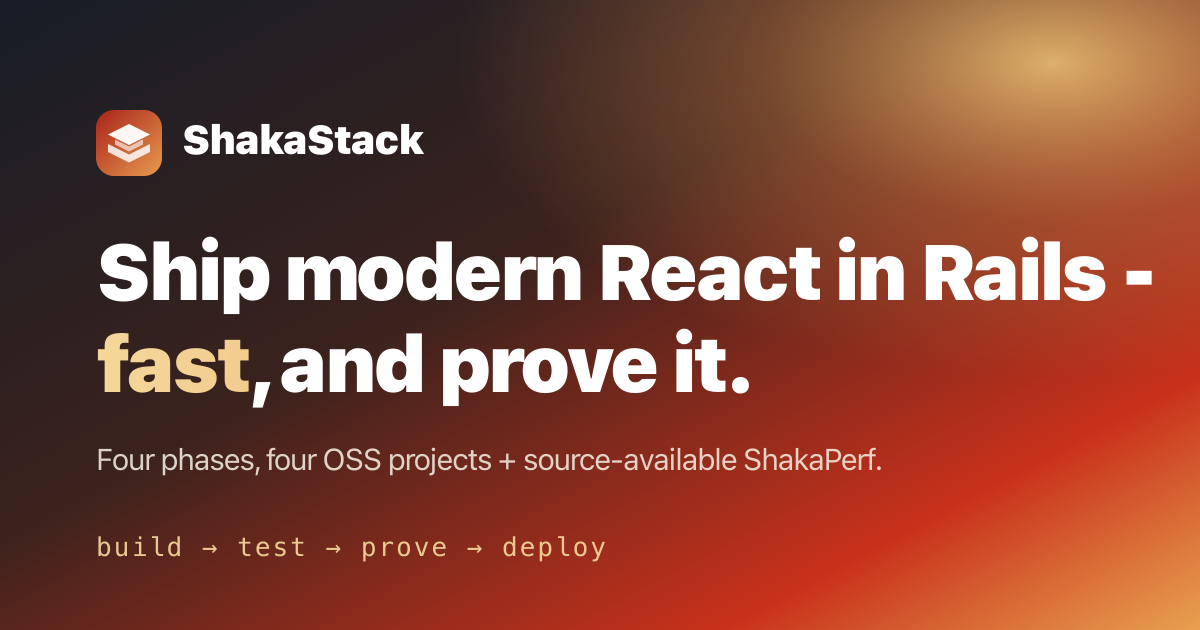
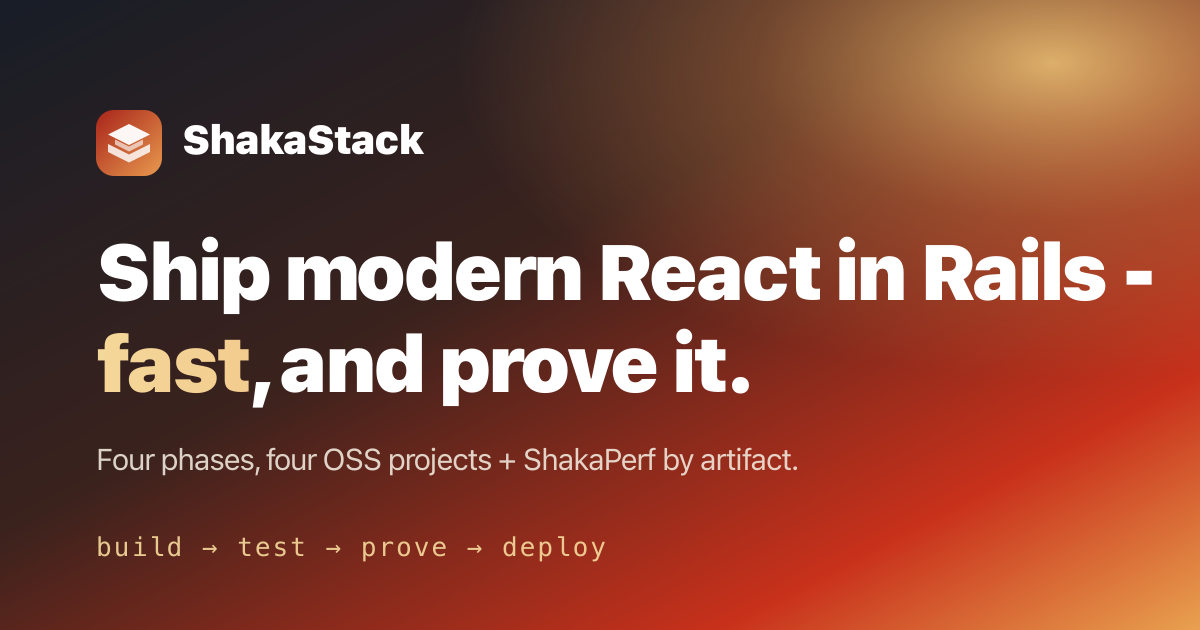
Clarify ShakaPerf artifact licensing and command (#38)
* Clarify ShakaPerf artifact licensing

* Pin ShakaPerf methodology evidence

* Align ShakaPerf public positioning

Changed region(s): [[0.4317, 0.6937, 0.74, 0.754]]

diff --git a/tests/mobile-overflow.spec.ts b/tests/mobile-overflow.spec.ts
@@ -211,6 +211,56 @@ test.describe("home page IA", () => {
     );
   });
 
+  test("shows the ShakaPerf command and artifact-specific license records", async ({ page }) => {
+    await page.goto("/");
+
+    await expect(page.locator('meta[name="description"]')).toHaveAttribute(
+      "content",
+      /ShakaPerf repository source and exact package records/
+    );
+    await expect(page.locator('meta[property="og:description"]')).toHaveAttribute(
+      "content",
+      /ShakaPerf repository source and exact package records/
+    );
+    await expect(page.locator("body")).not.toContainText(/source-available ShakaPerf/i);
+
+    const shakaPerfTab = page.getByRole("tab", { name: /ShakaPerf/ });
+    const stackExplorer = shakaPerfTab.locator("xpath=ancestor::astro-island");
+
+    await shakaPerfTab.scrollIntoViewIfNeeded();
+    await expect(stackExplorer).not.toHaveAttribute("ssr", "");
+    await shakaPerfTab.click();
+
+    const panel = page.getByRole("tabpanel");
+    await expect(panel.getByText("yarn shaka-perf compare", { exact: true })).toBeVisible();
+    await expect(
+      panel.getByRole("link", { name: "Repository source · ShakaPerf License" })
+    ).toHaveAttribute(
+      "href",
+      "https://github.com/shakacode/shakaperf/blob/f054e87b5d2712b78ed5e352ee31c6b44ea7e712/LICENSE.md"
+    );
+    await expect(page.getByRole("heading", { name: "ShakaPerf by artifact" })).toBeVisible();
+    await expect(
+      page.getByText("The repository source uses the ShakaPerf License.", { exact: false })
+    ).toBeVisible();
+    await expect(
+      page.getByText(
+        "npm registry JSON metadata for shaka-perf 0.1.3 and shaka-bundle-size 0.0.12 reports MIT.",
+        { exact: false }
+      )
+    ).toBeVisible();
+    await expect(page.getByRole("link", { name: "shaka-perf 0.1.3 registry JSON" })).toHaveAttribute(
+      "href",
+      "https://registry.npmjs.org/shaka-perf/0.1.3"
+    );
+    await expect(
+      page.getByRole("link", { name: "shaka-bundle-size 0.0.12 registry JSON" })
+    ).toHaveAttribute(
+      "href",
+      "https://registry.npmjs.org/shaka-bundle-size/0.0.12"
+    );
+  });
+
   test("keeps core content visible without JavaScript", async ({ browser }) => {
     const context = await browser.newContext({
       javaScriptEnabled: false,

diff --git a/src/data/shaka.ts b/src/data/shaka.ts
@@ -104,10 +104,14 @@ export const ROR_PRO = "https://reactonrails.com/pro/";
 export const ROR_SUPPORT =
   "https://reactonrails.com/docs/deployment/troubleshooting/";
 export const SHAKAPERF_LICENSE =
-  "https://github.com/shakacode/shakaperf/blob/main/LICENSE.md";
+  "https://github.com/shakacode/shakaperf/blob/f054e87b5d2712b78ed5e352ee31c6b44ea7e712/LICENSE.md";
+export const SHAKAPERF_NPM_0_1_3 =
+  "https://registry.npmjs.org/shaka-perf/0.1.3";
+export const SHAKA_BUNDLE_SIZE_NPM_0_0_12 =
+  "https://registry.npmjs.org/shaka-bundle-size/0.0.12";
 export const SHAKAPERF_PRICING = "https://shakaperf.com/pricing";
 export const SHAKAPERF_METHOD =
-  "https://github.com/shakacode/shakaperf/blob/main/packages/shaka-perf/used_statistics.md";
+  "https://github.com/shakacode/shakaperf/blob/f054e87b5d2712b78ed5e352ee31c6b44ea7e712/packages/shaka-perf/used_statistics.md";
 
 export const popmenuEvidence = {
   title: "Measured at Popmenu",
@@ -238,7 +242,7 @@ export const projects: Project[] = [
     url: "https://shakaperf.com",
     accent: "shakaperf",
     icon: "prove",
-    tagline: "Source-available A/B performance testing for CI.",
+    tagline: "Repository source for A/B performance testing in CI.",
     blurb:
       "Run control and experiment Docker containers side by side, sample them together, and compare performance with paired statistics. One Playwright definition can drive performance, visual, accessibility, SEO, and bundle checks.",
     benefits: [
@@ -247,11 +251,11 @@ export const projects: Project[] = [
       ["Docker-based", "Measure any web stack that can run as a production Docker image with an exposed port."],
     ],
     license: {
-      label: "Source-available",
+      label: "Repository source · ShakaPerf License",
       href: SHAKAPERF_LICENSE,
     },
     install: "yarn add shaka-perf shaka-bundle-size",
-    altInstall: "shaka-perf compare",
+    altInstall: "yarn shaka-perf compare",
     links: [
       ["Website", "https://shakaperf.com"],
       ["Docs", "https://shakaperf.com/docs/"],

diff --git a/README.md b/README.md
@@ -1,17 +1,17 @@
 # shakastack.com
 
 Marketing site for **ShakaStack** - a single entry point into four open-source
-[ShakaCode](https://shakacode.com) projects, source-available ShakaPerf, and an
-optional commercially licensed React on Rails Pro tier. The projects are
-organized into four phases for taking a Rails + React app from idea to measured
-production changes:
+[ShakaCode](https://shakacode.com) projects, the ShakaPerf repository source,
+and an optional commercially licensed React on Rails Pro tier. The projects
+are organized into four phases for taking a Rails + React app from idea to
+measured production changes:
 
 | Phase  | Project | What it does |
 |--------|---------|--------------|
 | Build  | [React on Rails](https://reactonrails.com) | Open-source Rails + React integration; Pro adds RSC and advanced rendering. |
 | Build  | [Shakapacker](https://shakapacker.com) | Bundle frontend assets with webpack, the Rails way. |
 | Test   | [E2E on Rails](https://e2eonrails.com) | Cypress or Playwright with Rails scenarios, factories, and clean test data. |
-| Prove  | [ShakaPerf](https://shakaperf.com) | Source-available control-vs-experiment performance testing. |
+| Prove  | [ShakaPerf](https://shakaperf.com) | Repository source for control-vs-experiment performance testing. |
 | Deploy | [Control Plane Flow](https://controlplaneflow.com) | A Heroku-style workflow on Control Plane infrastructure. |
 
 The page follows Donald Miller's **StoryBrand (SB7)** framework: the Rails
@@ -87,8 +87,12 @@ The stack mixes licenses: [React on Rails core](https://github.com/shakacode/rea
 [E2E on Rails](https://github.com/shakacode/cypress-playwright-on-rails/blob/master/LICENSE),
 and [Control Plane Flow](https://github.com/shakacode/control-plane-flow/blob/main/LICENSE)
 are open source; [React on Rails Pro](https://github.com/shakacode/react_on_rails/blob/main/REACT-ON-RAILS-PRO-LICENSE.md)
-uses its own commercial license; [ShakaPerf](https://github.com/shakacode/shakaperf/blob/main/LICENSE.md) is
-source-available under the ShakaPerf License.
+uses its own commercial license. The [ShakaPerf repository source](https://github.com/shakacode/shakaperf/blob/f054e87b5d2712b78ed5e352ee31c6b44ea7e712/LICENSE.md)
+uses the ShakaPerf License. Separately, npm registry JSON metadata reports `MIT` for
+[`shaka-perf@0.1.3`](https://registry.npmjs.org/shaka-perf/0.1.3) and
+[`shaka-bundle-size@0.0.12`](https://registry.npmjs.org/shaka-bundle-size/0.0.12).
+The site presents these as separate artifact/version records and does not extend
+them to other artifacts or versions.
 
 ## License
 